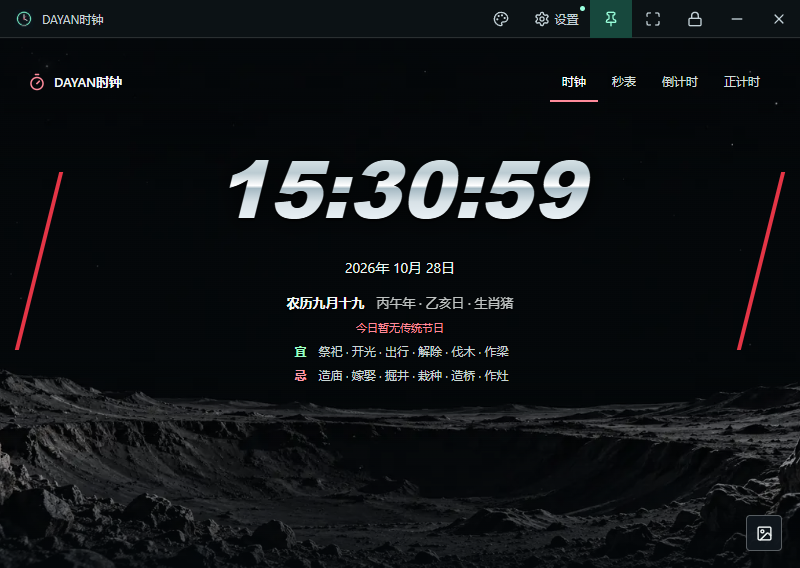
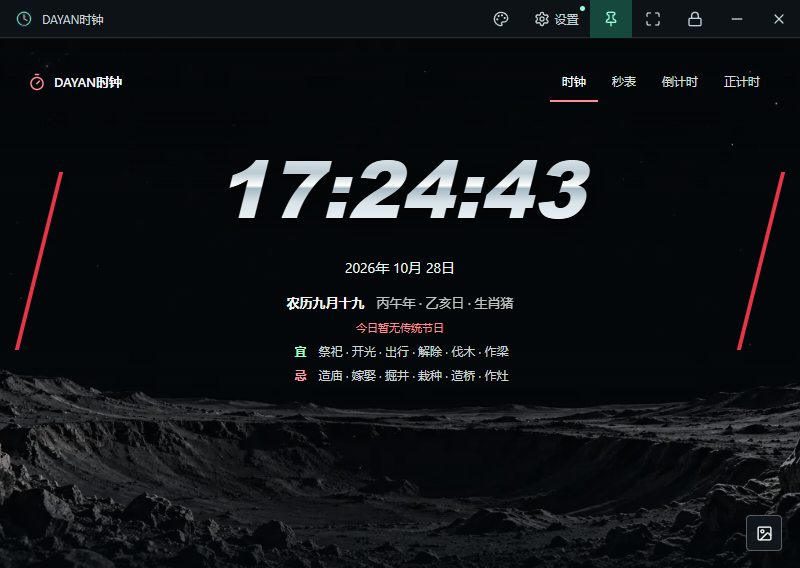
Add ten generated wallpapers and release 1.4.1

Changed region(s): [[0.4375, 0.2694, 0.75, 0.3891], [0.3438, 0.2694, 0.4062, 0.3891]]

diff --git a/renderer/timer.css b/renderer/timer.css
@@ -258,15 +258,15 @@
 #simple-timers .background-toggle,#simple-timers .picker-close { display:inline-flex;align-items:center;justify-content:center;width:36px;height:36px;border:1px solid #ffffff4d;border-radius:4px;background:#10171ee8;color:#f1f6f5; }
 #simple-timers .background-toggle svg,#simple-timers .picker-close svg { width:17px;height:17px; }
 #simple-timers .background-toggle[aria-expanded="true"] { border-color:#fff; }
-#simple-timers .background-picker { position:absolute;right:16px;bottom:61px;z-index:20;width:350px;max-width:calc(100% - 32px);padding:12px;border:1px solid #6d7b83;border-radius:6px;background:#111a21;color:#f1f5f4;box-shadow:0 12px 45px #000b; }
-#simple-timers .picker-heading { display:flex;align-items:center;justify-content:space-between;margin-bottom:10px;font-size:13px; }
+#simple-timers .background-picker { position:absolute;right:16px;bottom:61px;z-index:20;display:flex;flex-direction:column;width:350px;max-width:calc(100% - 32px);max-height:calc(100% - 78px);padding:12px;border:1px solid #6d7b83;border-radius:6px;background:#111a21;color:#f1f5f4;box-shadow:0 12px 45px #000b; }
+#simple-timers .picker-heading { display:flex;flex-shrink:0;align-items:center;justify-content:space-between;margin-bottom:10px;font-size:13px; }
 #simple-timers .picker-close { width:28px;height:28px;border:0;background:transparent; }
-#simple-timers .background-grid { display:grid;grid-template-columns:repeat(3,minmax(0,1fr));gap:7px; }
+#simple-timers .background-grid { display:grid;grid-template-columns:repeat(3,minmax(0,1fr));gap:7px;min-height:0;overflow-y:auto;overscroll-behavior:contain; }
 #simple-timers .background-choice { display:block;padding:3px;border:1px solid #44515b;border-radius:4px;background:#17232c;color:#e8eeeb;min-width:0; }
 #simple-timers .background-choice img { display:block;width:100%;height:42px;object-fit:cover;border-radius:2px; }
 #simple-timers .background-choice span { display:block;padding:3px 0 1px;font:11px/1.5 "Segoe UI","Microsoft YaHei",sans-serif;white-space:nowrap; }
 #simple-timers .background-choice[aria-pressed="true"] { border-color:#e7fff4;background:#314038; }
-#simple-timers .original-background { display:flex;justify-content:center;align-items:center;gap:6px;margin-top:9px;width:100%;height:29px;border:1px solid #44515b;border-radius:3px;background:#17232c;color:#e7eeeb;font-size:12px; }
+#simple-timers .original-background { display:flex;flex-shrink:0;justify-content:center;align-items:center;gap:6px;margin-top:9px;width:100%;height:29px;border:1px solid #44515b;border-radius:3px;background:#17232c;color:#e7eeeb;font-size:12px; }
 #simple-timers .original-background svg { width:13px;height:13px; }
 @media(max-width:420px) {
   #simple-timers .background-grid { grid-template-columns:repeat(2,minmax(0,1fr)); }

diff --git a/renderer/backgrounds.js b/renderer/backgrounds.js
@@ -48,5 +48,55 @@ window.timerBackgrounds = [
     "id": "city",
     "label": "雨夜都市",
     "src": "assets/backgrounds/city.webp"
+  },
+  {
+    "id": "galactic-vault",
+    "label": "银河穹顶",
+    "src": "assets/backgrounds/galactic-vault.png"
+  },
+  {
+    "id": "titanium-hangar",
+    "label": "钛银机库",
+    "src": "assets/backgrounds/titanium-hangar.png"
+  },
+  {
+    "id": "abyssal-sanctuary",
+    "label": "深海遗迹",
+    "src": "assets/backgrounds/abyssal-sanctuary.png"
+  },
+  {
+    "id": "polar-silence",
+    "label": "极夜雪境",
+    "src": "assets/backgrounds/polar-silence.png"
+  },
+  {
+    "id": "emerald-sanctuary",
+    "label": "翡翠秘境",
+    "src": "assets/backgrounds/emerald-sanctuary.png"
+  },
+  {
+    "id": "rose-silk",
+    "label": "玫瑰星纱",
+    "src": "assets/backgrounds/rose-silk.png"
+  },
+  {
+    "id": "moonlit-garden",
+    "label": "月下花庭",
+    "src": "assets/backgrounds/moonlit-garden.png"
+  },
+  {
+    "id": "prismatic-glass",
+    "label": "流光琉璃",
+    "src": "assets/backgrounds/prismatic-glass.png"
+  },
+  {
+    "id": "obsidian-dunes",
+    "label": "金曜沙海",
+    "src": "assets/backgrounds/obsidian-dunes.png"
+  },
+  {
+    "id": "neon-rain",
+    "label": "雨夜霓城",
+    "src": "assets/backgrounds/neon-rain.png"
   }
 ].map(item => ({ ...item, src: new URL(item.src, document.baseURI).href }));

diff --git a/README.md b/README.md
@@ -1,8 +1,8 @@
 # DAYAN时钟
 
-用于培训展示、直播计时和桌面屏保的离线桌面工具。打开即显示电脑本地时间，可切换秒表、倒计时和正计时；提供十四种显示样式、十张本地壁纸、日期与黄历，以及密码锁定展示模式。
+用于培训展示、直播计时和桌面屏保的离线桌面工具。打开即显示电脑本地时间，可切换秒表、倒计时和正计时；提供十四种显示样式、二十张本地壁纸、日期与黄历，以及密码锁定展示模式。
 
-当前版本：**1.4.0**。本仓库为私有代码与安装包备份，供获授权的维护者访问。
+当前版本：**1.4.1**。本仓库为私有代码与安装包备份，供获授权的维护者访问。
 
 [下载安装包](https://github.com/jyan5334-lab/dayan-clock/releases/latest) · [使用说明](docs/user-guide.md) · [部署与构建](docs/deployment.md) · [换电脑与远程维护](docs/maintenance.md) · [更新记录](CHANGELOG.md)
 
@@ -18,7 +18,7 @@
 | 正计时 | 从零累计，支持暂停、继续和重置 |
 | 经典样式 | 霓虹矩阵、液态铬金、机械黑曜、量子光环、赛博终端 |
 | 新增九款 | 巨幕极简、星舰中枢、星尘聚时、电路脉冲、故障电压、酸性涂鸦、光速轨迹、三体星轨、光谱脉冲 |
-| 十张壁纸 | 全部随安装包提供，断网可用；当前为静态图片 |
+| 二十张壁纸 | 保留原有十张，新增十个主题；全部本地提供，断网可用，当前为静态图片 |
 | 窗口与全屏 | 四角等比例缩放、置顶、全屏适配、顶部栏随鼠标移动暂时显示 |
 | 密码锁定 | 4 至 16 位数字密码；锁定后进入 kiosk 全屏，隐藏操作入口 |
 | Windows 设置 | 启动自检、版本架构识别、一键引导授权、策略复检与恢复 |
@@ -50,6 +50,26 @@
 
 ### 壁纸预览
 
+右下角图片按钮可选择全部二十张壁纸；选择面板支持滚动，小窗口也可访问完整列表。最新十张 PNG 原图实测为 **1672×941**，采用居中等比例覆盖，**不属于原生 4K / 8K 壁纸**。屏幕尺寸适配与图片原生清晰度是两回事。完整主题、分辨率与生成来源见 [壁纸说明](docs/wallpapers.md)。
+
+![月下花庭壁纸与时钟的实际程序效果](docs/screenshots/wallpaper-floral.png)
+
+#### 新增十个主题
+
+| 银河穹顶 | 钛银机库 |
+| --- | --- |
+| ![银河穹顶](assets/backgrounds/galactic-vault.png) | ![钛银机库](assets/backgrounds/titanium-hangar.png) |
+| 深海遗迹 | 极夜雪境 |
+| ![深海遗迹](assets/backgrounds/abyssal-sanctuary.png) | ![极夜雪境](assets/backgrounds/polar-silence.png) |
+| 翡翠秘境 | 玫瑰星纱 |
+| ![翡翠秘境](assets/backgrounds/emerald-sanctuary.png) | ![玫瑰星纱](assets/backgrounds/rose-silk.png) |
+| 月下花庭 | 流光琉璃 |
+| ![月下花庭](assets/backgrounds/moonlit-garden.png) | ![流光琉璃](assets/backgrounds/prismatic-glass.png) |
+| 金曜沙海 | 雨夜霓城 |
+| ![金曜沙海](assets/backgrounds/obsidian-dunes.png) | ![雨夜霓城](assets/backgrounds/neon-rain.png) |
+
+#### 原有十张
+
 | 暗夜山峦 | 寂静月面 |
 | --- | --- |
 | ![暗夜山峦](assets/backgrounds/mountains.webp) | ![寂静月面](assets/backgrounds/lunar.webp) |
@@ -74,11 +94,11 @@
 | 其他平台 | Windows 12 等未来版本及 ARM64 授权未验证；macOS 仅预留构建配置 |
 
 1. 登录有本仓库访问权限的 GitHub 账号，打开 [Releases](https://github.com/jyan5334-lab/dayan-clock/releases)。
-2. 下载 `DAYANClock-Setup-1.4.0-x64.exe`，运行后选择安装目录。
+2. 下载 `DAYANClock-Setup-1.4.1-x64.exe`，运行后选择安装目录。
 3. 从桌面或开始菜单启动，首次打开可在设置中确认系统版本与策略状态。
 4. 核对设置页中的软件版本。升级时先退出旧程序，再运行新安装包。
 
-安装包当前未做 Windows 代码签名，系统可能显示“未知发布者”。每个版本附带 `SHA256SUMS-1.4.0.txt`，校验方法见 [部署说明](docs/deployment.md#安装包校验)。
+安装包当前未做 Windows 代码签名，系统可能显示“未知发布者”。每个版本附带 `SHA256SUMS-1.4.1.txt`，校验方法见 [部署说明](docs/deployment.md#安装包校验)。
 
 ## 开发与构建
 
@@ -107,7 +127,7 @@ macOS 需在 Mac 或 macOS 构建环境执行 `npm ci` 和 `npm run dist:mac`。
 ```text
 desktop/           Electron 主进程、IPC、窗口缩放和 Windows 打包
 renderer/          计时逻辑、样式、背景列表、黄历与桌面交互
-assets/            十张壁纸、应用图标和第三方许可证
+assets/            二十张壁纸、素材清单、应用图标和第三方许可证
 scripts/           Windows 策略授权/恢复，以及原始素材工具
 tools/             可在新电脑直接运行的源码检查
 docs/              使用、部署、维护、验收与版本说明

diff --git a/docs/wallpaper-prompts.md b/docs/wallpaper-prompts.md
@@ -1,0 +1,47 @@
+# 生成提示词集
+
+工具：内置 `image_gen.imagegen`，逐张独立生成。下列为提示词的共同规范与各主题补充，概括了实际发送的英文场景描述；不是模型返回的分辨率保证。请求尺寸为 3840×2160，实际结果见 [素材清单](../assets/backgrounds-20261028.json)。
+
+## 共同规范
+
+Create ONE finished premium full-bleed desktop clock wallpaper, landscape 16:9, at the highest available native image resolution, requested 3840 x 2160. This is a background only. No clock, digits, text, letters, logo, watermark, UI, border, collage or device mockup. Reserve a calm dark low-contrast center, about 70% of width and 60-65% of height, for bright white, cyan, pink and yellow clock digits and a calendar. Keep bright surfaces and detailed scenery near the peripheral margins. Sophisticated cinematic lighting, meticulous material texture, no blown highlights, artificial bokeh or glowing gradient blobs. Composition should remain useful with centered cover cropping on 16:9, 21:9 and portrait screens. Outer scenery can crop, central reading area remains clear.
+
+## 01 银河穹顶
+
+Galactic Vault: sublime deep-space astrophotography mixed with refined science-fiction art. A thin immense silver-teal galaxy accretion arc grazes the top and far side edges, pale rose dust in the far corners. Cold silver lunar ridges occupy the bottom 18%. Near-black central space with very sparse faint stars. No planet or bright sun in the center. Pin-sharp peripheral terrain and dust.
+
+## 02 钛银机库
+
+Titanium Hangar: sculpted brushed titanium ribs and graphite ceramic panels frame a large futuristic hangar. Fine mechanical detail only on the outer 18% at the sides and bottom 15%. Controlled aqua illumination far left, champagne-white reflection far right. Spacious charcoal central volume with a very faint horizon. No people, aircraft, weapons or illuminated central doorway.
+
+## 03 深海遗迹
+
+Abyssal Sanctuary: dark underwater basalt cathedral-like formations in the lower corners. Sparse cyan bioluminescent coral tips and fine sea-grass hug the bottom 12% and far sides. A faint turquoise light touches the top-left; center opens into a calm dark abyss. Detailed wet rock erosion and subtle peripheral caustics. No sea creatures, bright bubbles or central light beam.
+
+## 04 极夜雪境
+
+Polar Silence: silver frosty alpine ridges along the bottom 20%, dark icy lake reflections in the foreground, restrained sage aurora along the top 10% with a sparse starfield. Clean central charcoal night sky. Sharp frosty terrain and a tranquil gender-neutral color grade. No visible moon, sun or bright central aurora.
+
+## 05 翡翠秘境
+
+Emerald Sanctuary: detailed wet ferns, jade foliage, moss and black tree trunks around the far sides. A still forest pool and dark polished stones occupy the bottom 16%. Pale moonlight grazes the top-right leaves. A quiet dark clearing and still water in the center. Restrained natural green and silver; no glowing balls or fantasy creatures.
+
+## 06 玫瑰星纱
+
+Rose Silk Nocturne: sculptural silk folds and translucent organza flow from the upper-left and lower-right corners. Dusty rose, mauve, pearl-silver and tiny champagne highlights against a charcoal center. Realistic fine fabric weave and luxurious editorial rim lighting. Bright fabric stays along the outer edges. No bows, hearts, figures, glitter or central silk folds.
+
+## 07 月下花庭
+
+Moonlit Petal Garden: white magnolia blossoms with pale lilac shadows and dusty pink petals enter from the far top-left and far right. Dark green leaves and a low obsidian reflecting pool along the bottom 14%. Off-camera moonlight reveals petal veins. Calm dark plum-charcoal center with no branches or flower heads crossing it. No visible moon or floating particles.
+
+## 08 流光琉璃
+
+Prismatic Glass: meticulously rendered fluted glass ribbons arc along the far left and lower-right corners. Physically realistic refraction, sharp fine ribbing, pearl-silver, lavender, mint and subtle blush. Controlled peripheral studio rim lights over a near-black center. Refined contemporary sculptural glass, no central orb or prism.
+
+## 09 金曜沙海
+
+Obsidian Dunes: finely rippled black-sand dunes in the bottom 24%, thin champagne-gold rim light traces selected far-left and lower-right dune crests. Obsidian and muted bronze with a touch of silver sky. Wide nearly empty dark central night sky. No visible sun, moon, large planet or lens flare.
+
+## 10 雨夜霓城
+
+Neon Rain Metropolis: precisely detailed futuristic glass-and-metal towers on the far sides, low rooftops across the bottom 15%. Controlled magenta strips far right, amber and a little cyan far left, dark wet ledges and fine rain. Huge calm charcoal central night sky. Sophisticated sharp architectural material detail, no people, cars, weapons or readable signage.

diff --git a/docs/verification.md b/docs/verification.md
@@ -1,5 +1,15 @@
 # 桌面验收
 
+## 1.4.1 十张新增壁纸
+
+验证日期：2026-10-28，Windows 11 专业版 x64。`npm run check` 通过：版本为 1.4.1，20 张壁纸注册项唯一，源文件路径、PNG 签名、清单中的像素尺寸与 SHA-256 均通过检查。
+
+开发模式与 Windows 打包程序均通过壁纸专项检查：20 张图片解码；480、800 像素宽窗口中的背景选择面板保持在窗口内并可滚动到末尾；旧壁纸仍可用；10 张新增壁纸切换不会打断秒表；新增壁纸在原生全屏锁屏中保持显示，锁屏时隐藏控件，密码解锁后恢复窗口；关闭重开后保留新增壁纸选择。完整桌面回归同时通过窗口缩放、四角拖拽、四种计时模式、14 种样式、黄历、全屏标题栏自动隐藏、密码锁定与单实例等检查，未记录应用错误。
+
+最终 NSIS 安装包中提取的 `DAYANClock.exe` 与 `app.asar` 将分别与已测试的 `win-unpacked` 程序进行 SHA-256 比对；安装包中的 20 张壁纸、版本清单和文档随 `app.asar` 一并检查。本次使用独立测试数据和测试密码，没有覆盖用户现有安装目录，也没有修改本机 Windows 策略。
+
+新增 PNG 的实际尺寸均为 1672×941，保留原始字节和校验值；这证明素材已正确集成，不代表原生 4K / 8K 画质。全屏适配检查覆盖布局和图片裁切策略，实体 4K、8K 显示器仍需在目标设备上复验。
+
 ## 1.4.0 九款新增样式
 
 验证日期：2026-10-28，Windows 11 专业版 x64。开发模式与 Windows 打包程序均通过六组样式专项检查：旧版设置迁移；十四款样式在 480、800 像素宽原生窗口中的布局；九款画布非空且包含实时数字；秒表运行中逐个切换新增样式、暂停、重置、倒计时归零及正计时；锁屏时隐藏控件并使用密码恢复；关闭重开保留新增样式且默认进入时钟。未记录应用脚本错误。
@@ -38,7 +48,7 @@
 
 - `npm ci` 后执行 `npm run check`，确认版本、资源、文档和语法无误。
 - 首次启动默认时钟，显示真实本地时间、年月日和黄历；设置能显示版本、架构与五项策略。
-- 逐个切换十四种样式与十张壁纸，末位数字完整，无图片丢失。
+- 逐个切换十四种样式与二十张壁纸，末位数字完整，无图片丢失；最小窗口中能滚动到最后一张并保存选择。
 - 检查秒表、正计时、倒计时的启动、暂停、重置与倒计时归零；切换样式和时钟不打断后台计时。
 - 从最小窗口拖动四角，再全屏；在横屏、竖屏和不同缩放比例上确认数字、黄历和按钮没有裁切。
 - 全屏停止移动鼠标后顶部栏隐藏，移动后显示；退出全屏后恢复原窗口。

diff --git a/docs/wallpapers.md b/docs/wallpapers.md
@@ -1,0 +1,32 @@
+# 壁纸素材说明
+
+1.4.1 将新生成的十个主题加入右下角背景选择面板，连同原有十张共二十张。所有文件随安装包提供，断网可用，选择会自动保存。面板高度随窗口约束，缩略图列表可滚动。
+
+![程序中的壁纸选择面板](screenshots/wallpaper-picker.png)
+
+| 新主题 | 风格 | 原图 |
+| --- | --- | --- |
+| 银河穹顶 | 星际科幻 | [PNG](../assets/backgrounds/galactic-vault.png) |
+| 钛银机库 | 硬朗科幻 | [PNG](../assets/backgrounds/titanium-hangar.png) |
+| 深海遗迹 | 深海秘境 | [PNG](../assets/backgrounds/abyssal-sanctuary.png) |
+| 极夜雪境 | 自然极简 | [PNG](../assets/backgrounds/polar-silence.png) |
+| 翡翠秘境 | 自然疗愈 | [PNG](../assets/backgrounds/emerald-sanctuary.png) |
+| 玫瑰星纱 | 柔和时尚 | [PNG](../assets/backgrounds/rose-silk.png) |
+| 月下花庭 | 柔和花卉 | [PNG](../assets/backgrounds/moonlit-garden.png) |
+| 流光琉璃 | 轻盈未来 | [PNG](../assets/backgrounds/prismatic-glass.png) |
+| 金曜沙海 | 静奢极简 | [PNG](../assets/backgrounds/obsidian-dunes.png) |
+| 雨夜霓城 | 都市赛博 | [PNG](../assets/backgrounds/neon-rain.png) |
+
+## 画质与适配
+
+新增十张使用内置 image_gen 于 2026-10-28 生成，原图全部为 **1672×941 像素**。请求过 3840×2160，接口实际返回较低尺寸；这批文件未进行放大、重采样或有损转换，保留生成结果的原始 PNG 字节。
+
+背景使用 `cover` 居中等比例铺满。16:9、16:10、21:9 和竖屏会按窗口比例裁切部分画面。中央保留深色读时区，景物细节主要分布在四周。
+
+22 至 50 英寸表示物理尺寸，不能直接决定图片清晰度。新增图片低于 1920×1080，在 4K / 8K 显示器全屏时会放大，**不应宣传为原生 4K / 8K 高清壁纸**。程序的高分辨率布局适配不代表原图新增了细节像素。
+
+## 维护与校验
+
+[素材清单](../assets/backgrounds-20261028.json) 记录主题、路径、实际尺寸、文件字节数和 SHA-256；[生成提示词](wallpaper-prompts.md) 记录共同构图规范与各主题描述。
+
+`npm run check` 检查二十张壁纸的存在性与文件类型，并复核新增十张的注册路径、尺寸和原图 SHA-256。新增或替换图片时，应同时维护 `renderer/backgrounds.js`、素材清单、README 图文和更新记录。更高分辨率文件应作为后续独立更新记录，不修改这批原始素材的尺寸声明。

diff --git a/docs/releases/v1.4.1.md b/docs/releases/v1.4.1.md
@@ -1,0 +1,16 @@
+# DAYAN时钟 1.4.1
+
+新生成的十张主题壁纸已加入实际程序，连同原有十张共二十张。点击右下角图片按钮，滚动背景列表即可选择；关闭重开后保留选择。十四款显示样式及四种计时模式继续可用。
+
+- 新主题：银河穹顶、钛银机库、深海遗迹、极夜雪境、翡翠秘境、玫瑰星纱、月下花庭、流光琉璃、金曜沙海、雨夜霓城。
+- 原始 PNG 随软件离线打包，源码包括图片、生成提示词、尺寸清单和 SHA-256。
+- 壁纸面板增加滚动与高度限制，最小窗口中也可访问末尾主题。
+- README 提供十款图文介绍，更新记录、使用说明与部署说明同步更新；维护文档补充每次推送的介绍和变更说明要求。
+
+验收已通过：源码检查确认版本、20 张壁纸、路径、PNG 签名和 SHA-256；打包程序确认小窗口滚动、壁纸切换、计时不中断、全屏锁屏、密码解锁和重启持久化；完整桌面回归确认四角缩放、14 种样式、四种计时模式、全屏标题栏自动隐藏和状态恢复。验证使用独立数据目录，没有修改现有用户设置或 Windows 策略。详细记录见 `docs/verification.md`。
+
+新增图片实测均为 **1672×941**，未放大或重采样，不属于原生 4K / 8K 壁纸；全屏布局适配不保证图片达到显示器的原生清晰度。画质限制和验收范围见仓库 `docs/wallpapers.md`、`docs/verification.md`。
+
+Windows 10/11 x64。Windows 11 x64 为本次实机测试环境，Windows 10 尚未实机验收；安装包未做 Windows 代码签名。本次不更改用户现有 Windows 策略。
+
+升级前退出旧程序，运行 `DAYANClock-Setup-1.4.1-x64.exe`。设置页可核对软件版本。源码为 `DAYANClock-Source-1.4.1.zip`，校验文件为 `SHA256SUMS-1.4.1.txt`；用户设置与密码不进入仓库。

diff --git a/docs/user-guide.md b/docs/user-guide.md
@@ -16,7 +16,9 @@
 
 顶部调色盘可选择十四种样式，双列菜单包含经典五款，以及巨幕极简、星舰中枢、星尘聚时、电路脉冲、故障电压、酸性涂鸦、光速轨迹、三体星轨、光谱脉冲九款新增样式。切换样式不会中断正在运行的计时，关闭后会记住最后选择。右下角图片按钮选择背景或恢复该样式的原始背景。图钉按钮控制置顶；全屏按钮或 F11 适合投屏，Esc 退出全屏。
 
-全屏时画面会铺满当前显示器，顶部操作栏平时隐藏，鼠标移动后暂时显示。时钟、日期和黄历会根据屏幕尺寸自适应，适合 1080p、2K、4K 和 8K 屏幕。
+背景选择中提供二十张静态壁纸，可滚动浏览；新主题从“银河穹顶”开始，选择后自动保存，重新启动仍会使用。背景按比例居中覆盖，超宽屏和竖屏会裁切部分画面。新增十张原图实测 1672×941，在 4K、8K 屏幕上会放大，不能保证原生清晰度，详见 [壁纸说明](wallpapers.md)。
+
+全屏时画面会铺满当前显示器，顶部操作栏平时隐藏，鼠标移动后暂时显示。时钟、日期和黄历会根据屏幕尺寸自适应；布局支持 1080p、2K、4K 和 8K 视口，背景画质由原图像素与显示分辨率共同决定。
 
 拖动标题栏移动窗口。鼠标移到四角出现斜向缩放光标，按住左键拖动，整个窗口保持 100:71 比例。窗口最小约 480×341，最大宽度 1600；不会超过当前显示器工作区域。全屏时居中显示并保持内容比例。
 

diff --git a/docs/maintenance.md b/docs/maintenance.md
@@ -38,6 +38,12 @@ npm run check
 
 用分支保存修改，审查后合并回 `main`。更换维护设备只需 GitHub 账号访问权限和上述开发环境；私有仓库没有公开访问入口。邀请协作者时由仓库所有者在 GitHub 的 Settings → Collaborators 中管理权限。
 
+## 每次推送的文档要求
+
+每次推送都同步更新 `CHANGELOG.md`，说明本次变更、用户能看到的结果以及相关验证。功能或素材发生变化时，同步更新 README 图文介绍、使用说明和对应截图；新增图片应保留原图尺寸、来源与校验信息。不要将未验证的画质、平台或权限能力写成已经通过验收。
+
+正式发布安装包时，另提供 `docs/releases/v<版本>.md`，列出更新内容、下载文件、平台范围、升级步骤、验证范围与已知限制。先完成检查与文档，再推送源码及标签，并在私有 Release 保存安装包、源码 ZIP 和 SHA-256 清单。
+
 ## 发布新版本
 
 1. 更新版本号、锁文件、更新记录与版本说明，运行源码检查和桌面验收。

diff --git a/CHANGELOG.md b/CHANGELOG.md
@@ -1,5 +1,13 @@
 # 更新记录
 
+## 1.4.1
+
+- 将新生成的十张壁纸接入实际程序：银河穹顶、钛银机库、深海遗迹、极夜雪境、翡翠秘境、玫瑰星纱、月下花庭、流光琉璃、金曜沙海、雨夜霓城。保留原有十张，共二十张。
+- PNG 原图随应用离线打包，保留生成文件的原始像素与校验值；新增素材清单、生成提示词和图文介绍。原图均为 1672×941，未标记为原生 4K / 8K。
+- 壁纸选择面板增加高度约束与列表滚动，避免二十张缩略图在小窗口中溢出。
+- 更新 README、使用说明、部署说明和版本发布说明，并将每次推送同步更新介绍与变更说明写入维护流程。
+- 已通过源码检查、壁纸专项打包验收和完整桌面回归；验证范围与原生分辨率限制记录于 `docs/verification.md`。
+
 ## 1.4.0
 
 - 将预览中标记的九款样式加入桌面应用：巨幕极简、星舰中枢、星尘聚时、电路脉冲、故障电压、酸性涂鸦、光速轨迹、三体星轨、光谱脉冲。

diff --git a/THIRD_PARTY_NOTICES.md b/THIRD_PARTY_NOTICES.md
@@ -8,5 +8,8 @@ UI icons use Lucide, distributed under the ISC license. See `assets/lucide.LICEN
 Chinese lunar calendar and almanac calculations use lunar-javascript,
 distributed under the MIT license. See `assets/lunar-javascript.LICENSE`.
 
-Ten background images were generated for this timer. They are bundled locally.
+Twenty background images were generated for this timer and are bundled locally.
+The ten PNG wallpapers added in 1.4.1 retain their original 1672x941 pixels;
+generation notes and checksums are recorded in assets/backgrounds-20261028.json
+and docs/wallpaper-prompts.md. They are not native 4K or 8K images.
 The DAYAN application icon was drawn for this project.

diff --git a/docs/deployment.md b/docs/deployment.md
@@ -10,11 +10,11 @@
 
 ## 安装包校验
 
-同一 Release 下载 `SHA256SUMS-1.4.0.txt` 与安装包，在下载目录运行：
+同一 Release 下载 `SHA256SUMS-1.4.1.txt` 与安装包，在下载目录运行：
 
 ```powershell
-Get-FileHash -Algorithm SHA256 .\DAYANClock-Setup-1.4.0-x64.exe
-Get-FileHash -Algorithm SHA256 .\DAYANClock-Source-1.4.0.zip
+Get-FileHash -Algorithm SHA256 .\DAYANClock-Setup-1.4.1-x64.exe
+Get-FileHash -Algorithm SHA256 .\DAYANClock-Source-1.4.1.zip
 ```
 
 将输出与校验文件逐项比较。安装包暂未签名，可能出现未知发布者提示；校验值用于确认文件与该版本资产一致，不代替代码签名。
